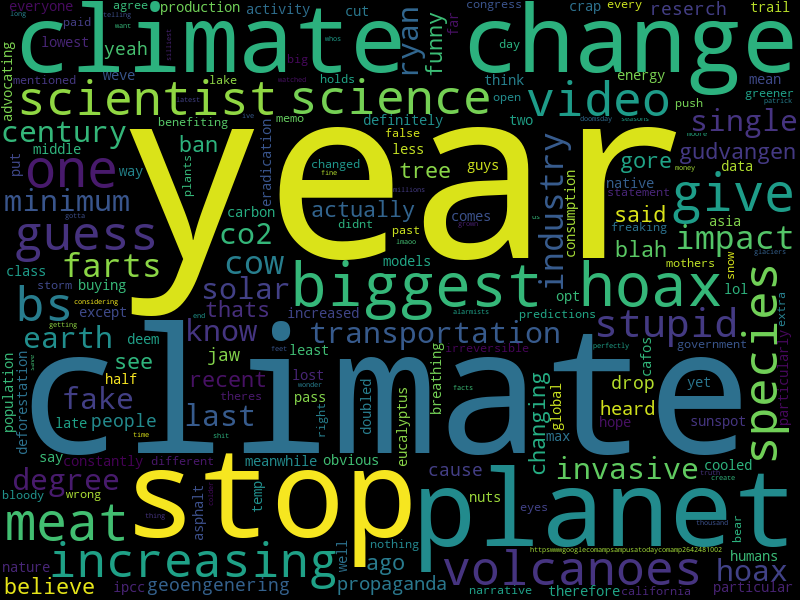
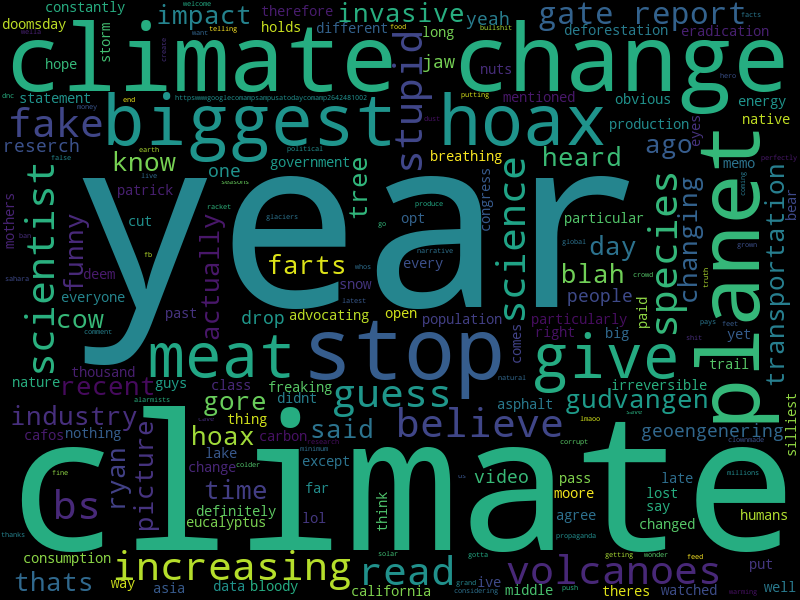
Update README

diff --git a/README.md b/README.md
@@ -1,37 +1,69 @@
-## Welcome to GitHub Pages
+# Wagwan Fam?
 
-You can use the [editor on GitHub](https://github.com/fabriziomiano/Wagwan/edit/master/README.md) to maintain and preview the content for your website in Markdown files.
+This tool serves those who have, or work for someone who owns, a facebook 
+page, and essentially want to know what the people are talking about in their post.
 
-Whenever you commit to this repository, GitHub Pages will run [Jekyll](https://jekyllrb.com/) to rebuild the pages in your site, from the content in your Markdown files.
 
-### Markdown
+## What is it?
 
-Markdown is a lightweight and easy-to-use syntax for styling your writing. It includes conventions for
+A simple front-end which can be used to run a basic, yet simple, 
+keywords extraction on facebook posts. In addition, it employs
+[spaCy](https://github.com/explosion/spaCy) default models 
+to extract named-entities from comments. Visit spaCy page to know more
+about named entities.
+This tool is pretty much a word counter that employs 
+standard NLP pre-processing, plus the NER part performed by spaCy. 
 
-```markdown
-Syntax highlighted code block
 
-# Header 1
-## Header 2
-### Header 3
+#### How does it do it?
 
-- Bulleted
-- List
+It brings up a webapp supported by a python back-end 
+which is a taylored version of [whats-the-topic](https://github.com/fabriziomiano/whats-the-topic/)
+It requires an access token to get people's comments on a selected post. 
+Additional info on how to get a token can be found at this [link](https://developers.facebook.com/docs/facebook-login/access-tokens/)
+In short, once a facebook developers account has been created, the access token can be generated through
+the [Facebook GraphAPI](https://developers.facebook.com/tools/explorer/). 
 
-1. Numbered
-2. List
+The tool performs text preprocessing (tokenization, stopwords filtering, stemming) 
+to make plots of the keyword-count plus a word cloud image - using the awesome 
+[`word_Cloud`](https://github.com/amueller/word_cloud) library.
 
-**Bold** and _Italic_ and `Code` text
+## For devs
 
-[Link](url) and ![Image](src)
-```
+This tool has been developed on Ubuntu 18.04 and macOS High Sierra, but 
+has never been seriously tested. 
+It requires Python3+ and all the packages listed in `requirements.txt`.
 
-For more details see [GitHub Flavored Markdown](https://guides.github.com/features/mastering-markdown/).
 
-### Jekyll Themes
+## Results 
 
-Your Pages site will use the layout and styles from the Jekyll theme you have selected in your [repository settings](https://github.com/fabriziomiano/Wagwan/settings). The name of this theme is saved in the Jekyll `_config.yml` configuration file.
+Here there are two images of the keyword-count bar plot, and the wordcloud, that are produced
+by running the tool on this post:
+https://www.facebook.com/GiveToTheNext/posts/477277113022512
 
-### Support or Contact
 
-Having trouble with Pages? Check out our [documentation](https://help.github.com/categories/github-pages-basics/) or [contact support](https://github.com/contact) and we’ll help you sort it out.
+#### Bar plot using the top 20 words
+
+![alt_text](https://raw.githubusercontent.com/fabriziomiano/Wagwan/master/Wagwan/static/plots/single_posts/477277113022512/barplot_477277113022512.png)
+
+
+#### Word cloud with no stemming 
+
+![alt text](https://raw.githubusercontent.com/fabriziomiano/Wagwan/master/Wagwan/static/plots/single_posts/477277113022512/wordcloud_477277113022512.png)
+
+
+#### Bar plot using the top 12 entities
+
+This is a bar plot of the top N entities extracted. 
+
+![alt_text](https://raw.githubusercontent.com/fabriziomiano/Wagwan/master/Wagwan/static/plots/barplot_476807096402847_ner.png)
+
+
+## Acknowledgements
+
+Thanks to the people at [spaCy](https://github.com/explosion/spaCy)
+for the NE part,to the people who produced 
+[facebook-sdk](https://github.com/mobolic/facebook-sdk)
+for the ease of access to the data, and finally to the guys who made 
+[word_cloud](https://amueller.github.io/word_cloud) for the awesome word-cloud images
+that can be produced.
